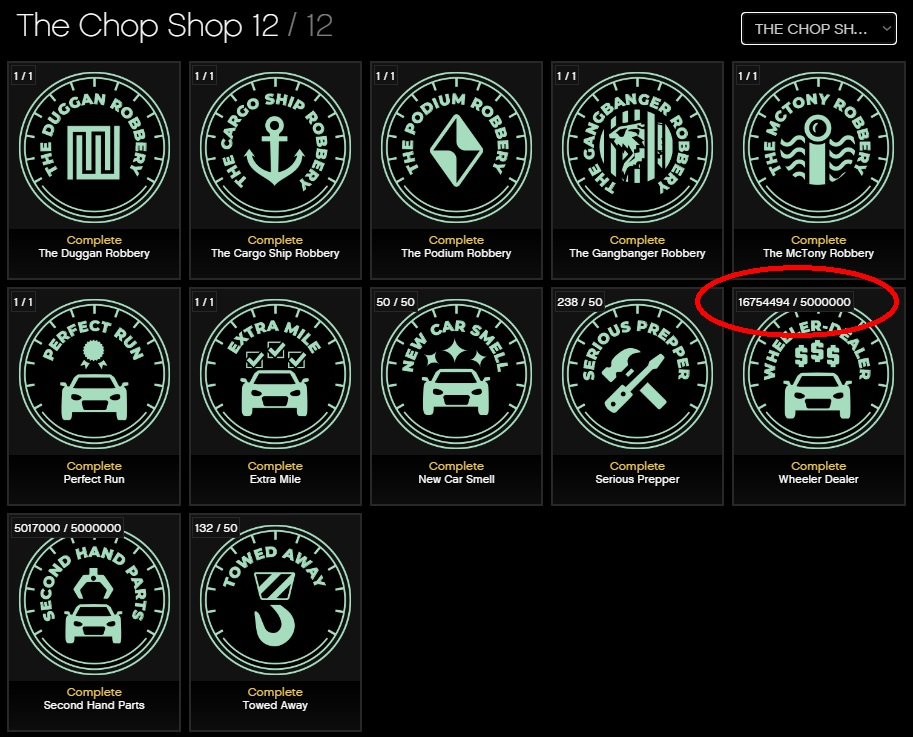
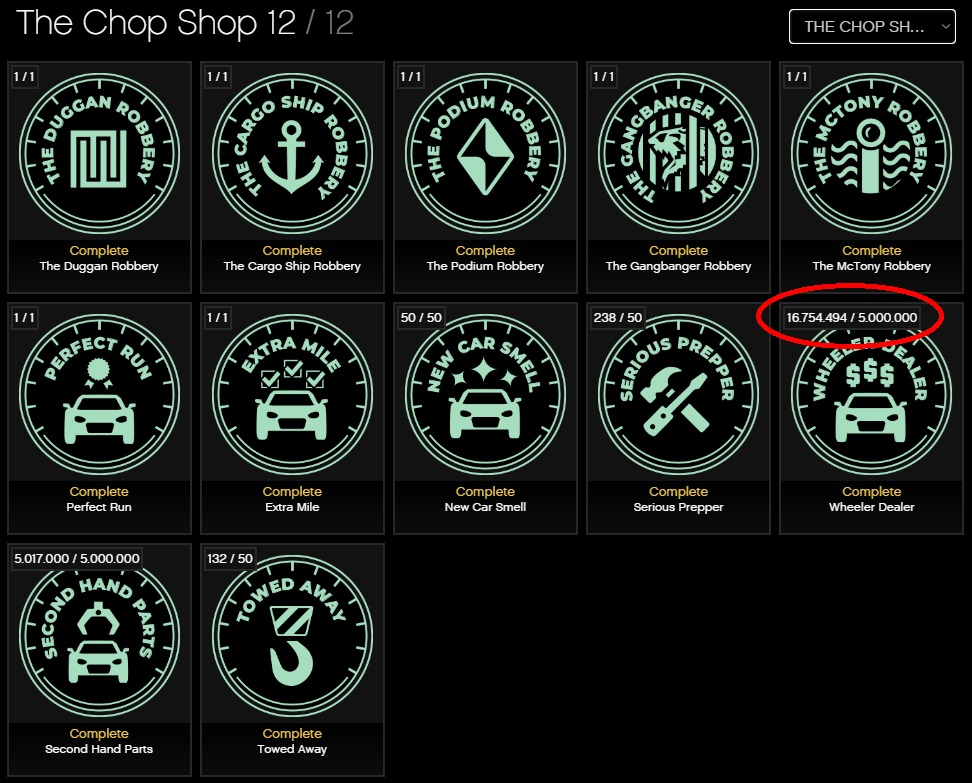
1.0.2 - number_format

Changed region(s): [[0.0, 0.0, 1.0, 0.9674], [0.3373, 0.0, 0.368, 0.0624], [0.184, 0.9362, 0.2147, 0.9986]]

diff --git a/rgsc-gtao-discover-true-awards-progress-value.user.js b/rgsc-gtao-discover-true-awards-progress-value.user.js
@@ -1,7 +1,7 @@
 // ==UserScript==
 // @name            RGSC-GTAO Discover True Awards Progress Value
 // @author          PLTytus
-// @version         1.0.1
+// @version         1.0.2
 // @namespace       http://gtaweb.eu/tampermonkey
 // @downloadURL     https://github.com/PLTytus/tampermonkey-rgsc-gtao-discover-true-awards-progress-value/raw/master/rgsc-discover-true-awards-progress-value.user.js
 // @updateURL       https://github.com/PLTytus/tampermonkey-rgsc-gtao-discover-true-awards-progress-value/raw/master/rgsc-discover-true-awards-progress-value.meta.js
@@ -12,13 +12,35 @@
 (function() {
     'use strict';
 
+    function number_format(number, decimals, dec_point, thousands_sep){
+        number = (number + '').replace(/[^0-9+\-Ee.]/g, '');
+        let n = !isFinite(+number) ? 0 : +number,
+            prec = !isFinite(+decimals) ? 0 : Math.abs(decimals),
+            sep = (typeof thousands_sep === 'undefined') ? ',' : thousands_sep,
+            dec = (typeof dec_point === 'undefined') ? '.' : dec_point,
+            s = '',
+            toFixedFix = function(n, prec){
+                let k = Math.pow(10, prec);
+                return '' + Math.round(n * k) / k;
+            };
+        s = (prec ? toFixedFix(n, prec) : '' + Math.round(n)).split('.');
+        if(s[0].length > 3){
+            s[0] = s[0].replace(/\B(?=(?:\d{3})+(?!\d))/g, sep);
+        }
+        if((s[1] || '').length < prec){
+            s[1] = s[1] || '';
+            s[1] += new Array(prec - s[1].length + 1).join('0');
+        }
+        return s.join(dec);
+    }
+
     let interval = setInterval(() => {
         let awards = document.querySelectorAll(".gtavContentArea");
 
         if(awards.length){
             awards.forEach(award => {
                 let info = document.createElement("div");
-                info.innerText = `${award.dataset.value} / ${award.dataset.target}`;
+                info.innerText = `${number_format(award.dataset.value, 0, ',', '.')} / ${number_format(award.dataset.target, 0, ',', '.')}`;
                 info.style.position = 'absolute';
                 info.style.top = '3px';
                 info.style.left = '3px';

diff --git a/rgsc-gtao-discover-true-awards-progress-value.meta.js b/rgsc-gtao-discover-true-awards-progress-value.meta.js
@@ -1,7 +1,7 @@
 // ==UserScript==
 // @name            RGSC Discover True Awards Progress Value
 // @author          PLTytus
-// @version         1.0.1
+// @version         1.0.2
 // @namespace       http://gtaweb.eu/tampermonkey
 // @downloadURL     https://github.com/PLTytus/tampermonkey-rgsc-discover-true-awards-progress-value/raw/master/rgsc-discover-true-awards-progress-value.user.js
 // @updateURL       https://github.com/PLTytus/tampermonkey-rgsc-discover-true-awards-progress-value/raw/master/rgsc-discover-true-awards-progress-value.meta.js
